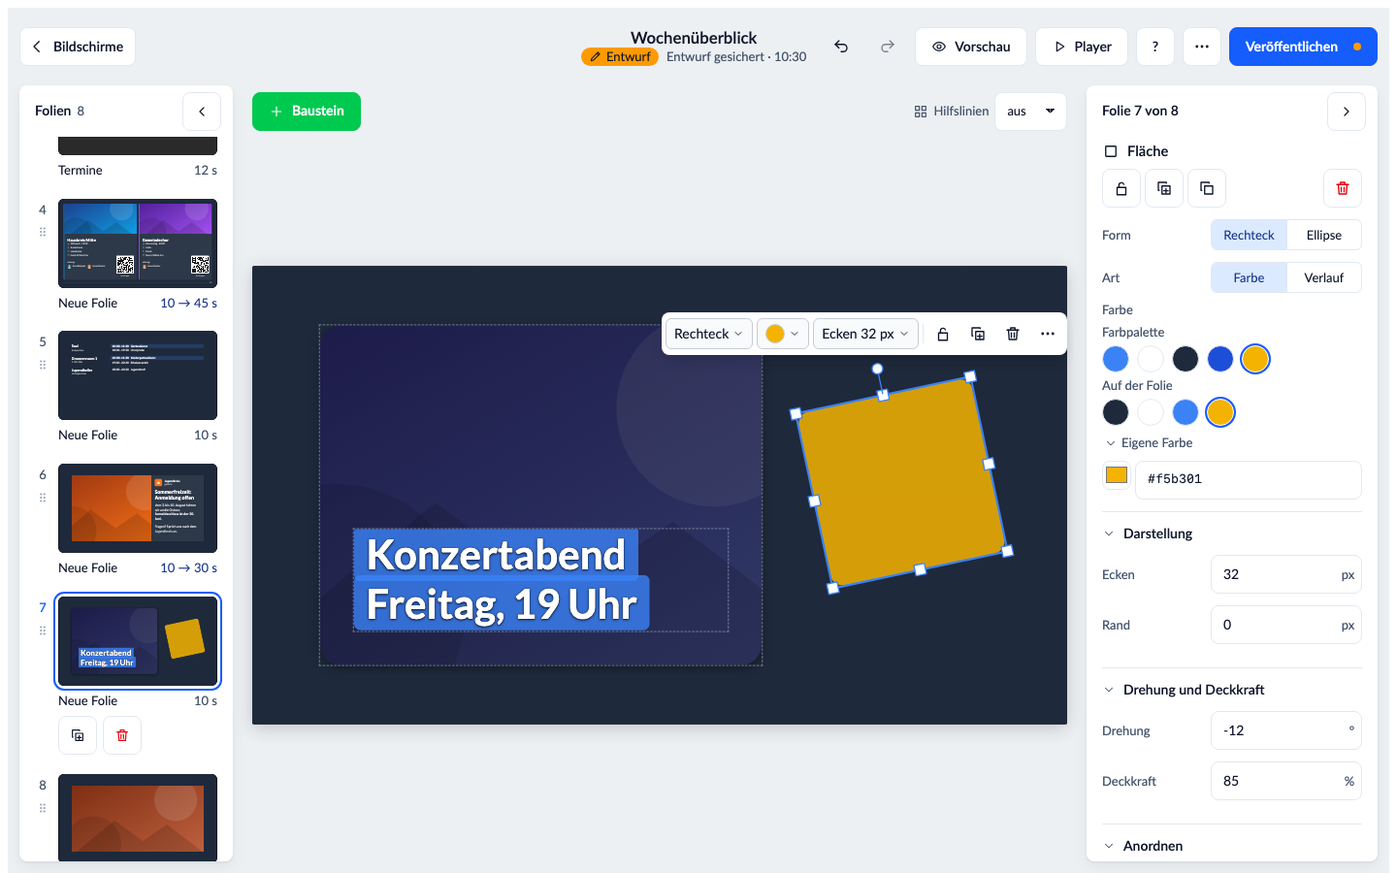
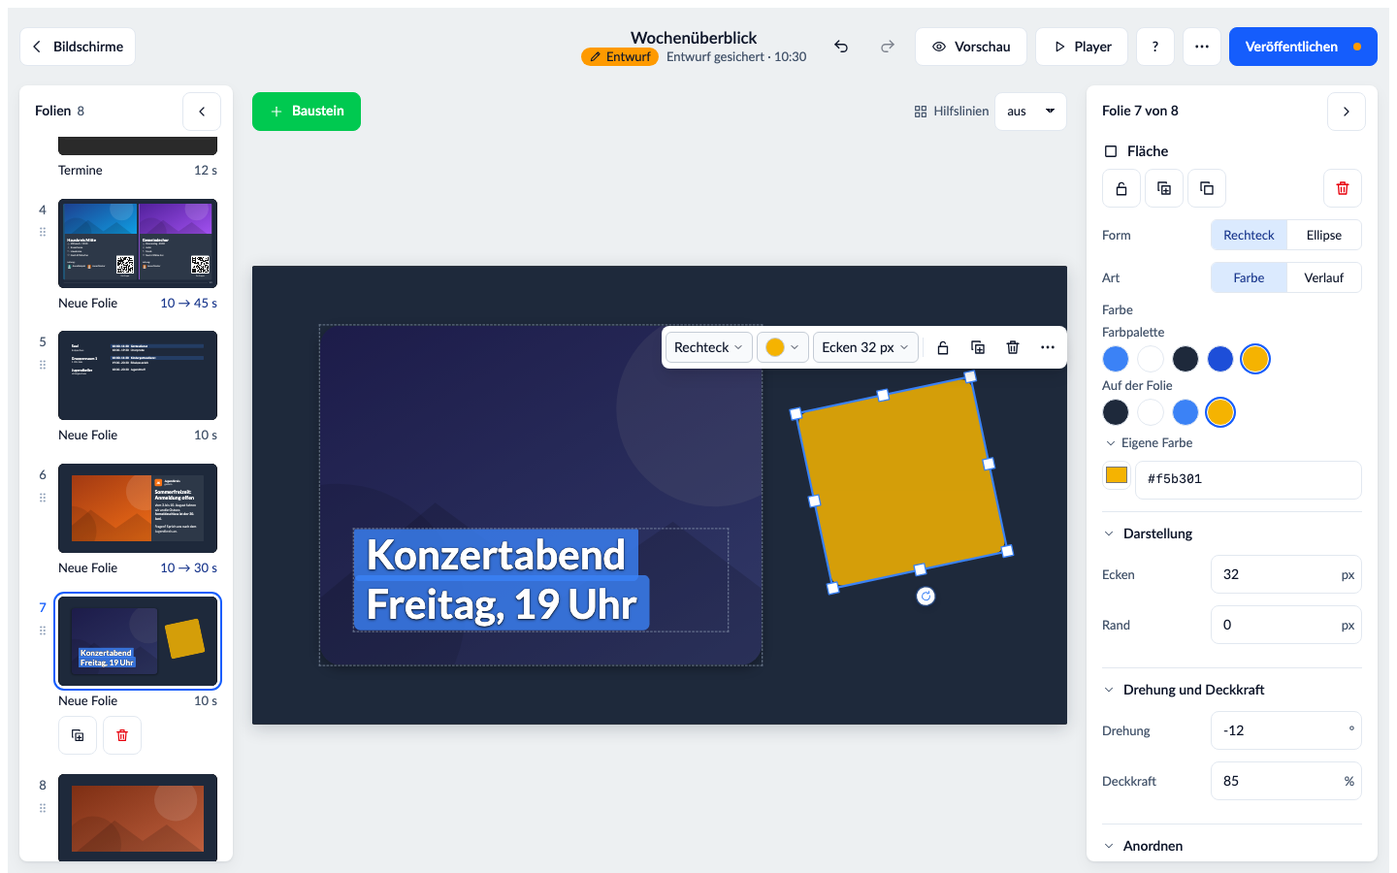
Drehgriff als Pfeil unten mittig; D abgenommen

Changed region(s): [[0.4688, 0.3422, 0.7812, 0.4356], [0.6562, 0.6533, 0.6875, 0.7156]]

diff --git a/src/designer/EditorStage.vue b/src/designer/EditorStage.vue
@@ -18,7 +18,7 @@ import { neighbourGaps, pairGaps, sizeLabelPlace, type Measure } from './measure
 import { BLOCK_ICONS, BLOCK_LABELS, blockBelow, boundingBox, clampFrame } from './ops';
 import QuickMenu from './QuickMenu.vue';
 import { cropPan, NO_CROP, type Crop } from './crop';
-import { handleBelow, handleReach, outerFrame, resizeRotated, snapAngle } from './rotate';
+import { handleAbove, handleReach, outerFrame, resizeRotated, snapAngle } from './rotate';
 import { snapMove, snapResize, type Guide, type Handle } from './snap';
 import { clampPan, viewOnto, WHOLE, zoomAt, zoomedFit, type View } from './stage-zoom';
 
@@ -508,16 +508,16 @@ function tight(b: Block): boolean {
     return coarse.value && handlesOutside({ width: b.width * fit.value.scale, height: b.height * fit.value.scale });
 }
 
-/** The middle of the rotate handle stands this many screen pixels above the block – further where the handles stand outside. */
+/** The middle of the rotate handle stands this many screen pixels below the block – further where the handles stand outside. */
 function rotateLift(b: Block): number {
     return tight(b) ? 62 : 28;
 }
-/** Seen, the rotate handle is 12 screen pixels wide, 16 where a finger is the pointer. */
-const rotateRadius = (): number => (coarse.value ? 8 : 6);
-/** Where the rotate handle would leave the stage above the block, it stands below it (the stage clips). */
-function rotateBelow(b: Block): boolean {
+/** Seen, the rotate handle is 18 screen pixels wide, 22 where a finger is the pointer. */
+const rotateRadius = (): number => (coarse.value ? 11 : 9);
+/** Where the rotate handle would leave the stage below the block, it stands above it (the stage clips). */
+function rotateAbove(b: Block): boolean {
     const scale = fit.value.scale;
-    return scale > 0 && handleBelow(b, rotateLift(b) / scale, rotateRadius() / scale, editor.stage);
+    return scale > 0 && handleAbove(b, rotateLift(b) / scale, rotateRadius() / scale, editor.stage);
 }
 /** How far the rotate handle of the one chosen block reaches past its box: the short menu keeps clear of it (F1). */
 const quickClear = computed(() => {
@@ -525,7 +525,7 @@ const quickClear = computed(() => {
     if (quickBlocks.value.length !== 1 || !b || b.locked) return { above: 0, below: 0 };
     const f = hostFrame(b);
     // Below the block the handle stands where it would stand above a block turned half round.
-    const rotation = (b.rotation ?? 0) + (rotateBelow(b) ? 180 : 0);
+    const rotation = (b.rotation ?? 0) + (rotateAbove(b) ? 0 : 180);
     return handleReach({ x: f.left, y: f.top, width: f.width, height: f.height, rotation }, rotateLift(b), rotateRadius());
 });
 
@@ -986,6 +986,7 @@ function onEmptyAction(b: Block): void {
                         transform: block.rotation ? `rotate(${block.rotation}deg)` : undefined,
                         '--handle': `${12 / fit.scale}px`,
                         '--lift': `${rotateLift(block) / fit.scale}px`,
+                        '--turn': `${(2 * rotateRadius()) / fit.scale}px`,
                         '--line': `${1.5 / fit.scale}px`,
                     }"
                     :title="block.locked ? t.editor.stage.lockedTitle(BLOCK_LABELS[block.type]) : undefined"
@@ -1024,14 +1025,16 @@ function onEmptyAction(b: Block): void {
                         />
                         <span
                             class="rotate-handle"
-                            :class="{ 'rotate-handle--below': rotateBelow(block) }"
+                            :class="{ 'rotate-handle--above': rotateAbove(block) }"
                             :title="t.editor.stage.rotateHandle"
                             data-testid="handle-rotate"
                             @pointerdown="startTurn($event, block)"
                             @pointermove="moveTurn"
                             @pointerup="endTurn"
                             @pointercancel="endTurn"
-                        />
+                        >
+                            <Icon name="rotate" />
+                        </span>
                     </template>
                 </div>
                 <div
@@ -1476,40 +1479,33 @@ function onEmptyAction(b: Block): void {
         background: transparent;
     }
 }
-/* `--lift` comes from the frame (rotateLift), so the short menu knows it too. */
+/* `--lift` and `--turn` come from the frame (rotateLift, rotateRadius), so the short menu knows them too. A turning
+   arrow on a white disc below the block (user, 2026-10-10), readable on any background. */
 .rotate-handle {
     position: absolute;
     left: 50%;
-    top: 0;
-    width: var(--handle);
-    height: var(--handle);
-    margin-left: calc(var(--handle) / -2);
-    margin-top: calc(var(--handle) / -2 - var(--lift));
-    box-sizing: border-box;
-    border: var(--line) solid rgb(59, 130, 246);
+    top: 100%;
+    display: grid;
+    place-items: center;
+    width: var(--turn);
+    height: var(--turn);
+    margin-left: calc(var(--turn) / -2);
+    margin-top: calc(var(--turn) / -2 + var(--lift));
     border-radius: 50%;
     background: #fff;
+    box-shadow: 0 0 0 var(--line) rgba(59, 130, 246, 0.35), 0 calc(var(--line) * 2) calc(var(--line) * 4) rgba(15, 23, 42, 0.3);
+    color: rgb(59, 130, 246);
     cursor: grab;
     touch-action: none;
 }
-/* The short line from the handle down to the frame. */
-.rotate-handle::after {
-    content: '';
-    position: absolute;
-    left: 50%;
-    top: 100%;
-    width: var(--line);
-    height: calc(var(--lift) - var(--handle) / 2);
-    transform: translateX(-50%);
-    background: rgb(59, 130, 246);
+.rotate-handle--above {
+    top: 0;
+    margin-top: calc(var(--turn) / -2 - var(--lift));
 }
-.rotate-handle--below {
-    top: 100%;
-    margin-top: calc(var(--handle) / -2 + var(--lift));
-}
-.rotate-handle--below::after {
-    top: auto;
-    bottom: 100%;
+.rotate-handle :deep(svg) {
+    width: 70%;
+    height: 70%;
+    pointer-events: none;
 }
 /* A fingertip needs a bigger grip than a mouse pointer – but the grip is the hit area below; seen, 16 screen pixels are enough (user at the phone, 2026-10-09: 24 were too big). */
 @media (pointer: coarse) {
@@ -1519,15 +1515,6 @@ function onEmptyAction(b: Block): void {
         margin: calc(var(--handle) * -2 / 3);
     }
     /* The area that catches a fingertip: 44 × 44 screen pixels around the middle of the handle. */
-    .rotate-handle {
-        width: calc(var(--handle) * 4 / 3);
-        height: calc(var(--handle) * 4 / 3);
-        margin-left: calc(var(--handle) * -2 / 3);
-        margin-top: calc(var(--handle) * -2 / 3 - var(--lift));
-    }
-    .rotate-handle::after {
-        height: calc(var(--lift) - var(--handle) * 2 / 3);
-    }
     .handle::before,
     .rotate-handle::before {
         content: '';

diff --git a/src/designer/rotate.test.ts b/src/designer/rotate.test.ts
@@ -1,5 +1,5 @@
 import { describe, expect, it } from 'vitest';
-import { handleBelow, handleReach, outerFrame, resizeRotated, snapAngle } from './rotate';
+import { handleAbove, handleReach, outerFrame, resizeRotated, snapAngle } from './rotate';
 
 describe('outerFrame (Plan.md F1)', () => {
     const frame = { x: 100, y: 100, width: 400, height: 100 };
@@ -108,24 +108,24 @@ describe('handleReach', () => {
     });
 });
 
-describe('handleBelow', () => {
+describe('handleAbove', () => {
     const stage = { width: 1920, height: 1080 };
     const frame = { x: 100, y: 100, width: 200, height: 100 };
 
-    it('stays above where there is room', () => {
-        expect(handleBelow(frame, 28, 6, stage)).toBe(false);
+    it('stays below where there is room', () => {
+        expect(handleAbove(frame, 28, 9, stage)).toBe(false);
     });
 
-    it('goes below a block at the top edge', () => {
-        expect(handleBelow({ ...frame, y: 10 }, 28, 6, stage)).toBe(true);
+    it('goes above a block at the bottom edge', () => {
+        expect(handleAbove({ ...frame, y: 970 }, 28, 9, stage)).toBe(true);
     });
 
-    it('stays above where it fits neither above nor below', () => {
-        expect(handleBelow({ ...frame, y: 10, height: 1060 }, 28, 6, stage)).toBe(false);
+    it('stays below where it fits neither below nor above', () => {
+        expect(handleAbove({ ...frame, y: 10, height: 1060 }, 28, 9, stage)).toBe(false);
     });
 
-    it('turns with the block: a quarter turn at the right edge puts it on the other side', () => {
-        expect(handleBelow({ ...frame, x: 1750, rotation: 90 }, 28, 6, stage)).toBe(true);
-        expect(handleBelow({ ...frame, x: 1750, rotation: -90 }, 28, 6, stage)).toBe(false);
+    it('turns with the block: a quarter turn at the left edge puts it on the other side', () => {
+        expect(handleAbove({ ...frame, x: -50, rotation: 90 }, 28, 9, stage)).toBe(true);
+        expect(handleAbove({ ...frame, x: -50, rotation: -90 }, 28, 9, stage)).toBe(false);
     });
 });

diff --git a/src/designer/rotate.ts b/src/designer/rotate.ts
@@ -87,11 +87,11 @@ export function handleReach(frame: RotatedFrame, lift: number, radius: number): 
 }
 
 /**
- * Whether the rotate handle goes below its block: the stage clips what reaches past its edge, so where the handle's place
- * above the block lies outside the stage and the place below does not, it moves there (user at the iPad, 2026-10-10).
- * All in stage pixels; `lift` and `radius` as in handleReach.
+ * Whether the rotate handle goes above its block. It stands below it (user, 2026-10-10: below, not above the middle);
+ * the stage clips what reaches past its edge, so where that place lies outside the stage and the one above does not, it
+ * moves there. All in stage pixels; `lift` and `radius` as in handleReach, which measures the handle above.
  */
-export function handleBelow(frame: RotatedFrame, lift: number, radius: number, stage: { width: number; height: number }): boolean {
+export function handleAbove(frame: RotatedFrame, lift: number, radius: number, stage: { width: number; height: number }): boolean {
     const a = (frame.rotation ?? 0) * RAD;
     const reach = frame.height / 2 + lift;
     const cx = frame.x + frame.width / 2;
@@ -101,5 +101,5 @@ export function handleBelow(frame: RotatedFrame, lift: number, radius: number, s
         const y = cy - side * reach * Math.cos(a);
         return x >= radius && x <= stage.width - radius && y >= radius && y <= stage.height - radius;
     };
-    return !fits(1) && fits(-1);
+    return !fits(-1) && fits(1);
 }

diff --git a/e2e/shapes.spec.ts b/e2e/shapes.spec.ts
@@ -42,7 +42,7 @@ test('a shape turned into an ellipse is drawn with 50 % rounding', async ({ page
     await expect(chip(page, /^Ecken/)).toHaveCount(0);
 });
 
-/** Drags the rotate handle a quarter turn clockwise: from above the middle to the right of it, at the same distance. */
+/** Drags the rotate handle a quarter turn clockwise, at the same distance from the middle – wherever it stands. */
 async function turnQuarter(page: Page): Promise<void> {
     const handle = (await page.getByTestId('handle-rotate').boundingBox())!;
     const frame = (await page.locator('.frame--selected').boundingBox())!;

diff --git a/src/designer/Icon.vue b/src/designer/Icon.vue
@@ -40,6 +40,8 @@ const PATHS = {
     unlock: ['M6 11h12v10H6z', 'M8.5 11V8a3.5 3.5 0 0 1 6.8-1.2'],
     eye: ['M2.5 12S6 5.5 12 5.5 21.5 12 21.5 12 18 18.5 12 18.5 2.5 12 2.5 12z', circle(12, 12, 3)],
     back: ['M15 5l-7 7 7 7'],
+    // The rotate handle on the stage (Plan.md F1): a turning arrow.
+    rotate: ['M19.5 12a7.5 7.5 0 1 1-2.2-5.3', 'M19.5 3.5v4h-4'],
     undo: ['M9 14L4 9l5-5', 'M4 9h11a5 5 0 0 1 0 10h-3'],
     redo: ['M15 14l5-5-5-5', 'M20 9H9a5 5 0 0 0 0 10h3'],
     external: ['M14 4h6v6', 'M20 4l-9 9', 'M18 14v5a1 1 0 0 1-1 1H5a1 1 0 0 1-1-1V7a1 1 0 0 1 1-1h5'],

diff --git a/Plan.md b/Plan.md
@@ -23,7 +23,7 @@ Ein ChurchTools Custom Module (CCM), mit dem angemeldete ChurchTools-Anwender In
    - **Neue Ladeanimation im Player** (Punkt 78) – gebaut, Entwurfs-PR #75.
 3. **Erst messen, dann planen** (Opus, nach dem Gerätetest P4): **Videos ohne Netz** (Punkt 46.7 – ob der Service Worker ein Video samt Bereichsanfragen aus dem Cache liefern kann) und **eine eigene hochgeladene Schrift** (ob die Download-Adresse einer Schriftdatei unter der CSP trägt; bräuchte ein Schema-Feld).
 4. **Der Designer für alle** (Punkt 79) – gestalten ohne Technikhintergrund, am Handy wie am Rechner. Reihenfolge: **B1** Begriffe (Folie, Präsentation, Bildschirm) und eine Textdatei → **A** Ordnung auf der Fläche (Bauplan fertig) → **B2** ein Wort, ein Bedienelement je Sache → **B3** neuer Look → **C** Kurzmenü, Text auf der Fläche, Bedienung mit dem Finger → **E** Entwurf und Veröffentlichen → **D** mehrere Bausteine → **F** Kreativ. 17 Fragen mit dem Nutzer geklärt am 2026-10-08/09; offen sind die Testpersonen (Seitenrand: später). Gebaut wird nach `v0.19.0`.
-   **Stand 2026-10-10:** **B1, A, B2, B3, C, E und D sind gebaut** – als lokale Branch-Kette `designer-b1` → `designer-a` → `designer-b2` → `designer-b3` → `designer-c` → `designer-e` → `designer-d` → `designer-f1` → `designer-f2` → `designer-f3` auf `lokal-v0.19-test` (also mit #73 und #75), **gepusht am 2026-10-10 als Sicherung, ohne PR, nicht gemergt**; **eine neue Sitzung beginnt auf `designer-f3`**. Der Nutzer prüft per lokalem ZIP auf der Testinstanz. **C und E sind vom Nutzer abgenommen (2026-10-10), D bis auf die Rückmeldung unten.** Die Doku (`docs/Funktionen.md`, `docs/Onboarding.md`, `README.md`, alle Bilder samt `mehrere.png`) ist für C, D und E nachgezogen; die Bilder-Strecke lief seit C rot (eine eingefrorene Uhr ließ Vue den Klick auf einen Baustein verwerfen) und läuft wieder. **Rückmeldung zu D** *(Nutzer am Tablet, 2026-10-10; gebaut am selben Tag)*: (1) Die Knöpfe unter „Anordnen“ stießen an den Rand – jetzt eine Zeile je Achse, drei Kanten und daneben Verteilen. (2) Eine gewählte Gruppe richtete beim Ausrichten ihre Mitglieder gegeneinander aus – jetzt zählt sie wie ein Baustein: allein richtet sie sich an der Folie aus, mit anderen bewegt sie sich als Einheit, beim Verteilen zählt sie einfach (`unitsOf` in `arrange.ts`). (3) Am Tablet passte die Höhe nicht, der Inspektor musste gescrollt werden – der Editor nimmt jetzt `100dvh` statt `100vh`; das reichte nicht (Nutzer, 2026-10-10): Am iPad setzt ChurchTools nach dem Modul einen 56 px hohen App-Banner über die Kopfleiste, den die Messung des Abstands nach oben nicht bemerkte (Befunde.md G57) – jetzt beobachtet sie jedes Kind von `<body>`. (4) Die Kacheln der Mediathek-Seite haben ein „…“ mit „Löschen“ (Rest aus B3). **Offen in D:** Gruppen in den Ebenen – geklärt am 2026-10-10 („Gruppe als eine Zeile", vorn/hinten eines einzelnen Mitglieds nur innerhalb der Gruppe), gebaut als Teil 5 unter Punkt 79, D9; die Abnahme am Tablet steht aus. **F1, F2 und F3 sind gebaut** *(Nutzer, 2026-10-10: „F1–F3 jetzt“, statt erst nach dem Mergen)* – als Fortsetzung der Kette `designer-d` → `designer-f1` → `designer-f2` → `designer-f3`, Schema 1.30 bis 1.32; die Abnahme am Tablet steht aus (Drehgriff und Ausschnitt mit dem Finger sind nur mit der Maus geprüft), die Bilder der Doku zeigen F seit dem 2026-10-10 (neu `gestalten.png`). **F4** (Bewegung beim Einblenden) wartet auf die Messung am Pi nach P4. **Danach** *(Nutzer, 2026-10-10)*: Testpersonen für die Abnahme planen, sobald der neue Designer auf der Produktivinstanz läuft; der Seitenrand (D8) bleibt später. **Mergen nach P4:** erst #73 und #75 als `v0.19.0`, dann die Kette auf den neuen `main` setzen und je Paket ein PR. *Probelauf am 2026-10-10* (`main` mit #73 und #75 gesquasht, Kette mit `git rebase --onto main lokal-v0.19-test designer-f3`): ein einziger Konflikt in `.claude/agents/umsetzer.md` – die Fassung aus `main` (#79) nehmen; danach unterscheidet sich das Ergebnis von `designer-f3` nur in den Doku-Änderungen aus `main`.
+   **Stand 2026-10-10:** **B1, A, B2, B3, C, E und D sind gebaut** – als lokale Branch-Kette `designer-b1` → `designer-a` → `designer-b2` → `designer-b3` → `designer-c` → `designer-e` → `designer-d` → `designer-f1` → `designer-f2` → `designer-f3` auf `lokal-v0.19-test` (also mit #73 und #75), **gepusht am 2026-10-10 als Sicherung, ohne PR, nicht gemergt**; **eine neue Sitzung beginnt auf `designer-f3`**. Der Nutzer prüft per lokalem ZIP auf der Testinstanz. **C und E sind vom Nutzer abgenommen (2026-10-10), D bis auf die Rückmeldung unten.** Die Doku (`docs/Funktionen.md`, `docs/Onboarding.md`, `README.md`, alle Bilder samt `mehrere.png`) ist für C, D und E nachgezogen; die Bilder-Strecke lief seit C rot (eine eingefrorene Uhr ließ Vue den Klick auf einen Baustein verwerfen) und läuft wieder. **Rückmeldung zu D** *(Nutzer am Tablet, 2026-10-10; gebaut am selben Tag)*: (1) Die Knöpfe unter „Anordnen“ stießen an den Rand – jetzt eine Zeile je Achse, drei Kanten und daneben Verteilen. (2) Eine gewählte Gruppe richtete beim Ausrichten ihre Mitglieder gegeneinander aus – jetzt zählt sie wie ein Baustein: allein richtet sie sich an der Folie aus, mit anderen bewegt sie sich als Einheit, beim Verteilen zählt sie einfach (`unitsOf` in `arrange.ts`). (3) Am Tablet passte die Höhe nicht, der Inspektor musste gescrollt werden – der Editor nimmt jetzt `100dvh` statt `100vh`; das reichte nicht (Nutzer, 2026-10-10): Am iPad setzt ChurchTools nach dem Modul einen 56 px hohen App-Banner über die Kopfleiste, den die Messung des Abstands nach oben nicht bemerkte (Befunde.md G57) – jetzt beobachtet sie jedes Kind von `<body>`. (4) Die Kacheln der Mediathek-Seite haben ein „…“ mit „Löschen“ (Rest aus B3). **D ist abgenommen** (Nutzer, 2026-10-10), zuletzt die Gruppen in den Ebenen (Teil 5 unter Punkt 79, D9). **F1, F2 und F3 sind gebaut** *(Nutzer, 2026-10-10: „F1–F3 jetzt“, statt erst nach dem Mergen)* – als Fortsetzung der Kette `designer-d` → `designer-f1` → `designer-f2` → `designer-f3`, Schema 1.30 bis 1.32; die Abnahme am Tablet steht aus (Drehgriff und Ausschnitt mit dem Finger sind nur mit der Maus geprüft), die Bilder der Doku zeigen F seit dem 2026-10-10 (neu `gestalten.png`). **F4** (Bewegung beim Einblenden) wartet auf die Messung am Pi nach P4. **Danach** *(Nutzer, 2026-10-10)*: Testpersonen für die Abnahme planen, sobald der neue Designer auf der Produktivinstanz läuft; der Seitenrand (D8) bleibt später. **Mergen nach P4:** erst #73 und #75 als `v0.19.0`, dann die Kette auf den neuen `main` setzen und je Paket ein PR. *Probelauf am 2026-10-10* (`main` mit #73 und #75 gesquasht, Kette mit `git rebase --onto main lokal-v0.19-test designer-f3`): ein einziger Konflikt in `.claude/agents/umsetzer.md` – die Fassung aus `main` (#79) nehmen; danach unterscheidet sich das Ergebnis von `designer-f3` nur in den Doku-Änderungen aus `main`.
 5. **Vorschau in einem zweiten Fenster** (Punkt 56) – skizziert; geparkt (Nutzer, 2026-10-10).
 6. **Teststrategie prüfen – keine doppelten Prüfungen** (Punkt 60) – vom Nutzer gewünscht am 2026-10-02; eine Durchsicht, später (Nutzer, 2026-10-10).
 
@@ -658,7 +658,7 @@ Hier stehen nur Punkte, die noch nicht veröffentlicht sind, mit vollem Text. Di
         - **Hinterlegung nur beim Text** – nicht bei Uhr, Countdown und Gemeindekopf, wie F3 oben es vorsah: Sie braucht eine Inline-Spanne, die je Zeile umbricht (`box-decoration-break: clone`, Innenabstand `0.08em 0.3em`, Ecken `0.15em`), und nur der Text zeichnet seine Zeilen so; wer hinter eine Uhr eine Fläche will, legt eine Fläche dahinter und gruppiert. Farbe mit Deckkraft als `rgba` aus `toHex`. Beim Schreiben auf der Fläche (C4) ist die gezeichnete Spanne ohnehin verborgen.
         - **Inspektor (`FontSection.vue`):** „Zeilenabstand" und „Buchstabenabstand" als Segmente Eng · Normal · Weit für jeden Baustein mit Schrift (nicht `quick`); eine neue Eigenschaft `effects` (`'shadow' | 'all'`) zeigt „Schatten" (Segment Ohne · Weich · Stark, `text-shadow`) – bei Text, Uhr, Countdown, Gemeindekopf – und bei `'all'` (nur Text) „Hinterlegung" als Schalter, darunter Farbe (Vorgabe Akzent des Designs) und Deckkraft (Vorgabe 80 %). Beim Text gehen Schatten und Hinterlegung ins Kurzmenü (`quick`).
         - **Tests:** Schema (Felder optional, Folie aus 1.31 gültig, Minor 32); Unit für `textStyle` (jeder Wert, Gegenfarbe des Schattens bei hellem und dunklem Text, nichts gesetzt ohne Felder); `render.test.ts` (Hinterlegung als Spanne nur beim Text); e2e (`e2e/text-look.spec.ts`): Schatten und Hinterlegung im Kurzmenü des Textes, Zeilenabstand im Inspektor ändert `line-height` des gezeichneten Textes.
-      - **Rückmeldung zu F1–F3** *(Nutzer am iPad, 2026-10-10; gebaut am selben Tag auf `designer-f3`)*: (1) Bei manchen Bausteinen verschwand der Drehgriff hinter dem Kurzmenü – mit dem Finger steht er bei flachen Bausteinen 62 px über dem Rahmen, das Menü hielt aber fest 36 px Abstand. Jetzt kommt der Abstand des Griffs aus einer Stelle (`rotateLift`), und das Menü rechnet aus, wie weit er über oder – gedreht – unter die Box ragt (`handleReach` in `rotate.ts`). (2) Die Schrift der Knöpfe war zu dünn: Die Lato von ChurchTools hat nur 300, 400 und 700, die 500 aus „Fett sparsam" wurde als 400 gezeichnet – Knöpfe stehen jetzt auf 600, gezeichnet als 700. (3) Auf den Übersichtsseiten (Präsentationen, Bildschirme …) passte die Höhe am iPad nicht: Seite und Seitenleiste rechneten noch mit `100vh`, das in Safari unter die Leiste reicht – jetzt `100dvh` wie der Editor. (4) Der Drehgriff passte am iPad jetzt, verschwand aber, wenn der Baustein am oberen Rand der Folie lag – die Bühne schneidet ab, was über ihren Rand ragt. Jetzt wandert er unter den Baustein, wo er oben nicht auf die Bühne passt und unten schon (`handleBelow` in `rotate.ts`, gedreht entsprechend zur Seite); das Kurzmenü hält auch dort Abstand. Ein Griff außerhalb der Bühne trüge nicht: Am Handy, am iPad hochkant und beim Zoomen gibt es keinen Rand neben ihr.
+      - **Rückmeldung zu F1–F3** *(Nutzer am iPad, 2026-10-10; gebaut am selben Tag auf `designer-f3`)*: (1) Bei manchen Bausteinen verschwand der Drehgriff hinter dem Kurzmenü – mit dem Finger steht er bei flachen Bausteinen 62 px über dem Rahmen, das Menü hielt aber fest 36 px Abstand. Jetzt kommt der Abstand des Griffs aus einer Stelle (`rotateLift`), und das Menü rechnet aus, wie weit er über oder – gedreht – unter die Box ragt (`handleReach` in `rotate.ts`). (2) Die Schrift der Knöpfe war zu dünn: Die Lato von ChurchTools hat nur 300, 400 und 700, die 500 aus „Fett sparsam" wurde als 400 gezeichnet – Knöpfe stehen jetzt auf 600, gezeichnet als 700. (3) Auf den Übersichtsseiten (Präsentationen, Bildschirme …) passte die Höhe am iPad nicht: Seite und Seitenleiste rechneten noch mit `100vh`, das in Safari unter die Leiste reicht – jetzt `100dvh` wie der Editor. (4) Der Drehgriff passte am iPad jetzt, verschwand aber, wenn der Baustein am oberen Rand der Folie lag – die Bühne schneidet ab, was über ihren Rand ragt. Jetzt wandert er unter den Baustein, wo er oben nicht auf die Bühne passt und unten schon (`handleBelow` in `rotate.ts`, gedreht entsprechend zur Seite); das Kurzmenü hält auch dort Abstand. Ein Griff außerhalb der Bühne trüge nicht: Am Handy, am iPad hochkant und beim Zoomen gibt es keinen Rand neben ihr. (5) *Nutzer, 2026-10-10:* Der Griff ist ein kleiner Drehpfeil statt des Kreises und sitzt unten mittig – oben nur noch, wo er unten nicht auf die Bühne passt (`handleAbove`); ein weißes Plättchen hält ihn auf jedem Hintergrund lesbar, die Linie zum Rahmen fällt weg.
     - **F4 Bewegung beim Einblenden.** Schema: `BlockFrame` optional `enter: { effect: 'fade' | 'rise' | 'slide-left' | 'slide-right' | 'zoom', delay: 0–3000 ms }`, feste Dauer 600 ms. Player: beim Zeigen einer Folie CSS-Animationen nur auf `transform` und `opacity` (wie Punkt 78), nach dem Überblenden der Folie (`PlayerView.vue`, `Transition name="fade"`); bei `prefers-reduced-motion` keine. Editor: Effekt und Verzögerung als Bildkacheln und Segment im Bereich „Darstellung", ein Knopf **„Bewegung abspielen"** an der Folie und in der Vorschau. **Erst messen** (nach P4, am Pi): wie viele gleichzeitige Bewegungen über einer laufenden Galerie oder einem Video ruckelfrei bleiben; daraus eine Obergrenze je Folie mit Hinweis im Editor.
     - **Grenzen:** Neue Felder machen Folien größer; bei vielen Bausteinen nähert sich eine Folie den 10.000 Zeichen eher. Die Prüfung vor dem Speichern bleibt; ihr Hinweis nennt künftig, welche Bausteine am meisten Platz brauchen.
     - **Tests je Teil:** Schema-Tests (neue Felder optional, alte Folien unverändert gültig, Duldsamkeit des Players gegenüber jedem neuen Feld – Pflicht nach Abschnitt E); Unit für Drehen (Skalieren in eigenen Achsen, umschließende Box), Ausschnitt (Bilddienst-Größe), Effekte (Stil-Rechnung); e2e: drehen am Griff, Ausschnitt verschieben, Bewegung in der Vorschau; der Player zeigt jedes neue Feld (`player.spec.ts`).

diff --git a/docs/Funktionen.md b/docs/Funktionen.md
@@ -79,8 +79,8 @@ noch nicht „Rechte aktualisieren" geklickt hat, geht jede Änderung mit „Ver
 Fernseher; der Editor sagt das.
 
 **Formen, Linien, Drehen:** Eine Fläche ist ein Rechteck mit runden Ecken oder eine Ellipse, auf Wunsch mit Rand. Die
-Linie ist durchgezogen oder gestrichelt und hat Griffe nur an ihren Enden. Jeder Baustein dreht sich am runden Griff
-über seinem Rahmen; er rastet bei 0°, 45°, 90° … ein, mit Umschalt dreht er frei. Genaue Winkel und die **Deckkraft**
+Linie ist durchgezogen oder gestrichelt und hat Griffe nur an ihren Enden. Jeder Baustein dreht sich am Drehpfeil
+unter seinem Rahmen (am unteren Rand der Folie steht er darüber); er rastet bei 0°, 45°, 90° … ein, mit Umschalt dreht er frei. Genaue Winkel und die **Deckkraft**
 stehen im Inspektor unter „Drehung und Deckkraft“, „Drehen zurücksetzen“ im „⋯“ des Kurzmenüs.
 
 **Bilder gestalten:** Ein Doppelklick auf ein Bild öffnet den **Ausschnitt** – das Bild im Rahmen verschieben, mit dem
